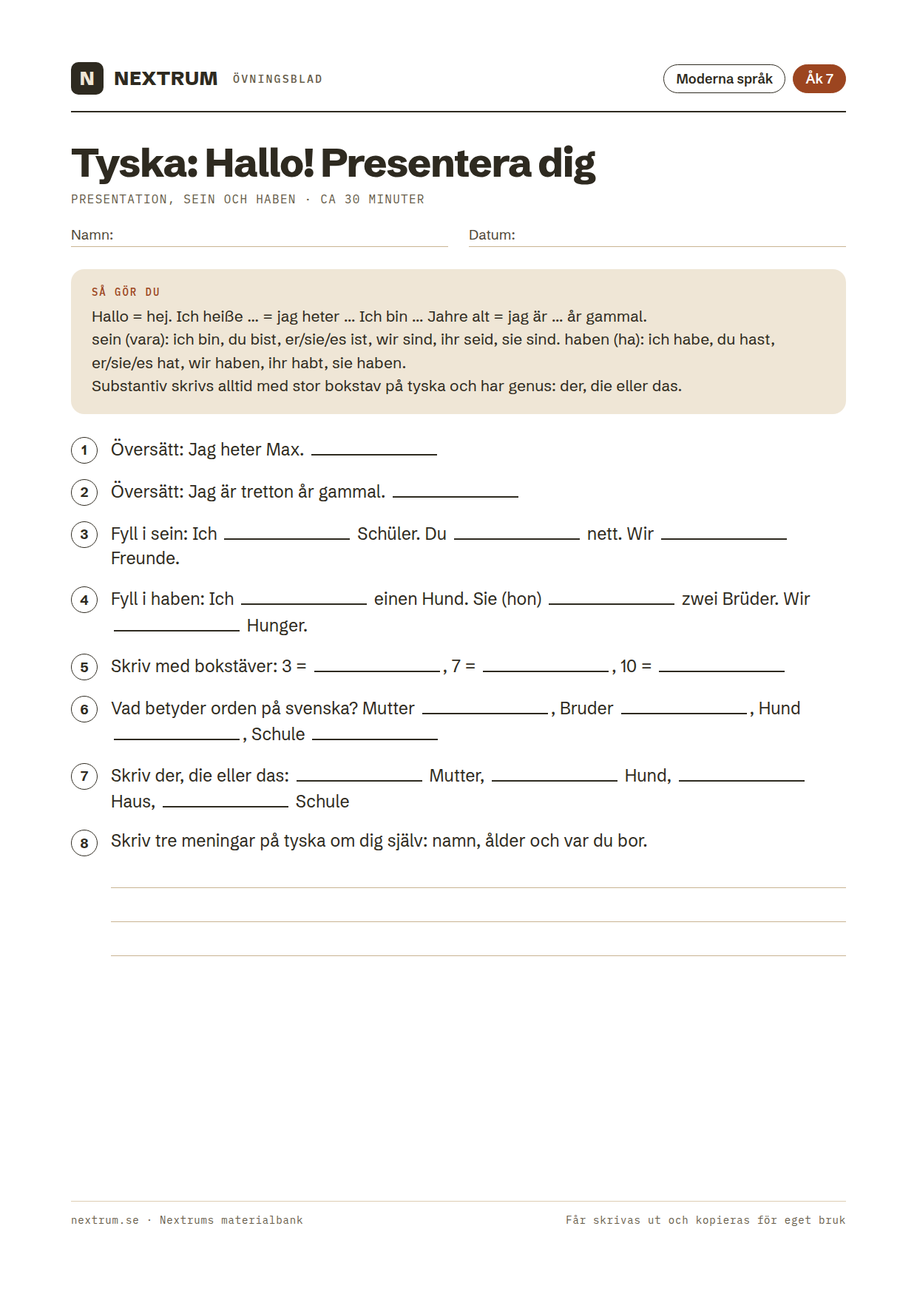
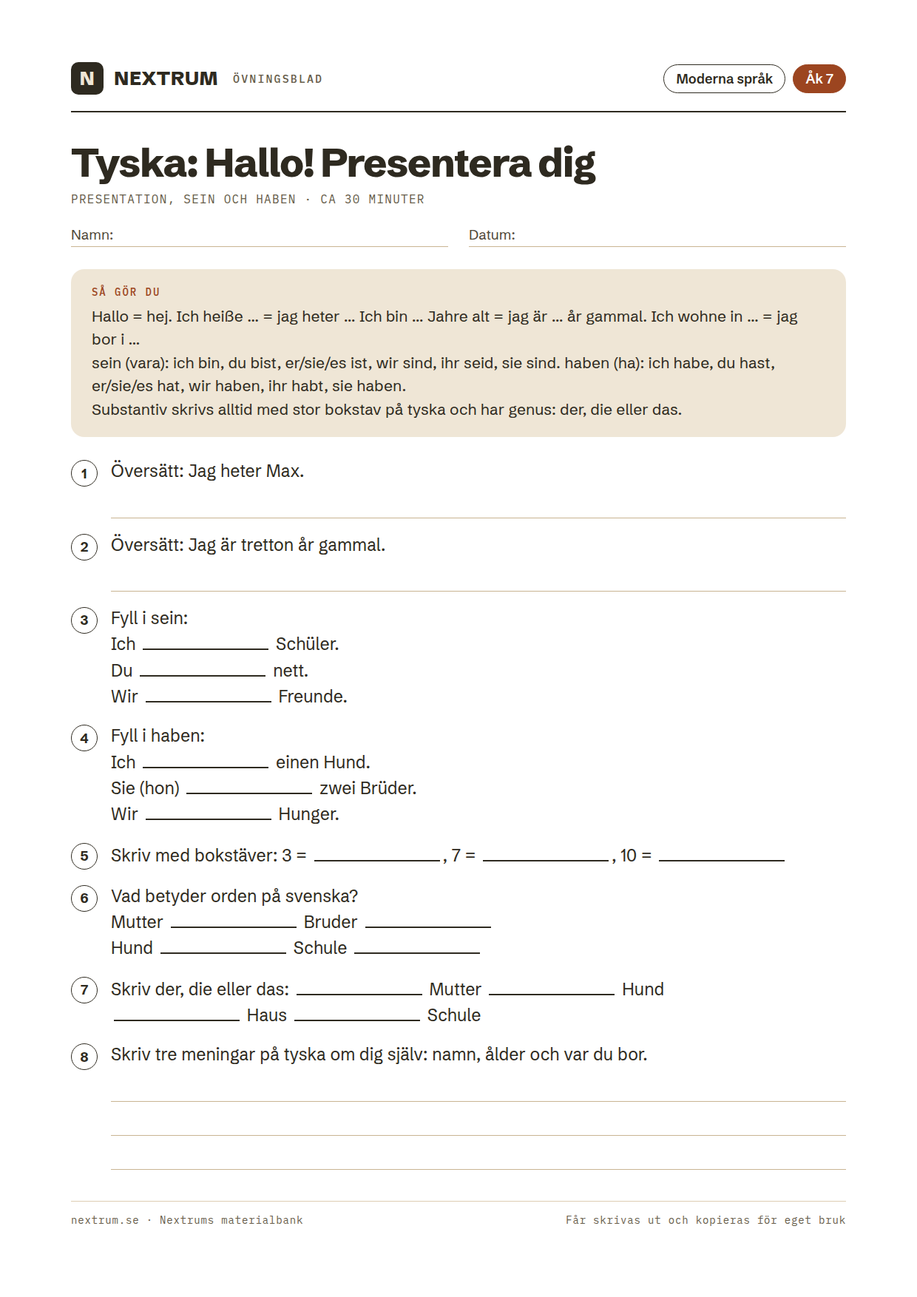
Fas 15.6: språk- och räknegranskningen rättar bladen i materialbanken
Ingen granskare hittade fel facit. Däremot frågade flera uppgifter efter
något som bladet aldrig lär ut, och några saknade plats för svaret:

- Tyska, spanska och franska får "jag heter" och "jag bor i" i
  instruktionen, och en mening per rad i uppgifterna med flera luckor.
- Översättningar får en hel skrivrad i stället för en kort linje.
- Dialogbladet säger att punkten blir komma före "sa Omar", satsdelarna
  förklarar huvudsats och bisats, och klockan att halv fyra skrivs 3.30.
- Python åk 9 förklarar == och range(1, 4); felsökningsuppgiften har ett
  fel i stället för två. Python gy 1 förklarar append, upper och for.
- Svarsplats där den saknades (förenkla, integral, skärningspunkt,
  tiotal och ental), rektangeln 8 × 5 cm ritas i rätt proportion,
  fogge-s tas bort ur uppdelningsuppgiften, och gymnasietalaren har gått
  två år på skolan, inte nio.
- Källkritiken godtar flera kriterier, och skrivuppgifterna har lika
  många rader som texten ber om.

Migrationen är oförändrad: ingen titel eller beskrivning ändrades.

Claude-Session: https://claude.ai/code/session_011LBvXSaptKobfKq6P5G3d3

diff --git a/verktyg/bladen/hogstadiet.py b/verktyg/bladen/hogstadiet.py
@@ -50,8 +50,8 @@ BLAD = [
          instruktion=['En variabel, till exempel x, står för ett tal som kan variera.',
                       'Förenkla genom att lägga ihop likadana termer: 3x + 2x = 5x. Parentes: 2(x + 3) = 2x + 6.',
                       'En ekvation löser du genom att göra samma sak på båda sidor. Kontrollera svaret.'],
-         uppgifter=[('Beräkna värdet av 3x + 4 när x = 5.', 1), ('Beräkna värdet av 2a − b när a = 6 och b = 3.', 1),
-                    ('Förenkla 4x + 3x.', 0), ('Förenkla 5a + 2 + 3a − 1.', 1), ('Förenkla 3(x + 4).', 1),
+         uppgifter=[('Beräkna värdet av 3x + 4 när x = 5. []', 0), ('Beräkna värdet av 2a − b när a = 6 och b = 3.', 1),
+                    ('Förenkla 4x + 3x.', 1), ('Förenkla 5a + 2 + 3a − 1.', 1), ('Förenkla 3(x + 4).', 1),
                     ('Lös ekvationen 5x − 3 = 22.', 2), ('Lös ekvationen 4x + 7 = 2x + 15.', 2),
                     ('Ett paket kostar p kr. Skriv ett uttryck för vad 4 paket kostar tillsammans med en fraktavgift på 30 kr.', 1),
                     ('Maja är x år och hennes bror är 3 år äldre. Tillsammans är de 25 år. Ställ upp en ekvation och lös den.', 2)],
@@ -144,16 +144,16 @@ BLAD = [
 
     dict(fil='ak7-tyska-hallo-och-verben-sein-haben', arskurs='ak7', amne='Moderna språk',
          titel='Tyska: Hallo! Presentera dig', omrade='Presentation, sein och haben', tid='30 minuter',
-         instruktion=['Hallo = hej. Ich heiße ... = jag heter ... Ich bin ... Jahre alt = jag är ... år gammal.',
+         instruktion=['Hallo = hej. Ich heiße ... = jag heter ... Ich bin ... Jahre alt = jag är ... år gammal. Ich wohne in ... = jag bor i ...',
                       'sein (vara): ich bin, du bist, er/sie/es ist, wir sind, ihr seid, sie sind. '
                       'haben (ha): ich habe, du hast, er/sie/es hat, wir haben, ihr habt, sie haben.',
                       'Substantiv skrivs alltid med stor bokstav på tyska och har genus: der, die eller das.'],
-         uppgifter=[('Översätt: Jag heter Max. ___', 0), ('Översätt: Jag är tretton år gammal. ___', 0),
-                    ('Fyll i sein: Ich ___ Schüler. Du ___ nett. Wir ___ Freunde.', 0),
-                    ('Fyll i haben: Ich ___ einen Hund. Sie (hon) ___ zwei Brüder. Wir ___ Hunger.', 0),
+         uppgifter=[('Översätt: Jag heter Max.', 1), ('Översätt: Jag är tretton år gammal.', 1),
+                    ('Fyll i sein:\nIch ___ Schüler.\nDu ___ nett.\nWir ___ Freunde.', 0),
+                    ('Fyll i haben:\nIch ___ einen Hund.\nSie (hon) ___ zwei Brüder.\nWir ___ Hunger.', 0),
                     ('Skriv med bokstäver: 3 = ___, 7 = ___, 10 = ___', 0),
-                    ('Vad betyder orden på svenska? Mutter ___, Bruder ___, Hund ___, Schule ___', 0),
-                    ('Skriv der, die eller das: ___ Mutter, ___ Hund, ___ Haus, ___ Schule', 0),
+                    ('Vad betyder orden på svenska?\nMutter ___   Bruder ___\nHund ___   Schule ___', 0),
+                    ('Skriv der, die eller das: ___ Mutter   ___ Hund\n___ Haus   ___ Schule', 0),
                     ('Skriv tre meningar på tyska om dig själv: namn, ålder och var du bor.', 3)],
          beskrivning='Nybörjartyska: presentera sig, verben sein och haben, siffror, familjeord och genus.'),
 
@@ -195,7 +195,8 @@ BLAD = [
          titel='Satsdelar: subjekt, predikat och objekt', omrade='Grammatik', tid='30 minuter',
          instruktion=['Predikatet är verbet i satsen. Subjektet är den eller det som gör något: fråga "vem eller vad" + predikatet.',
                       'Objektet är den eller det något görs med: fråga "vem eller vad" + predikatet + subjektet.',
-                      'Adverbial berättar när, var eller hur: i går, i parken, snabbt.'],
+                      'Adverbial berättar när, var eller hur: i går, i parken, snabbt.',
+                      'En huvudsats kan stå ensam. En bisats börjar ofta med ett ord som eftersom, att eller om och kan inte stå ensam.'],
          uppgifter=[('Vad är predikatet i "Eva läser en bok"? ___', 0),
                     ('Vad är subjektet i "Barnen byggde en koja"? ___', 0),
                     ('Vad är objektet i "Barnen byggde en koja"? ___', 0),
@@ -203,7 +204,7 @@ BLAD = [
                     ('Dela upp meningen i subjekt, predikat, objekt och adverbial: Mamma bakade bullar på söndagen.', 2),
                     ('Rätta ordföljden: I morgon jag ska åka till farmor. ___', 1),
                     ('Vilken del är huvudsats och vilken bisats? Jag stannar hemma eftersom jag är sjuk.', 2),
-                    ('Gör om till en fråga: Han har läst boken. ___', 0),
+                    ('Gör om till en fråga: Han har läst boken.', 1),
                     ('Skriv en mening med subjekt, predikat, objekt och adverbial. Markera delarna.', 2)],
          beskrivning='Satsdelar: hitta subjekt, predikat, objekt och adverbial, rätta ordföljd och skilja huvudsats från bisats.'),
 
@@ -212,10 +213,10 @@ BLAD = [
          instruktion=['En atom har en kärna med protoner (positiva) och neutroner (utan laddning). Runt kärnan finns elektroner (negativa).',
                       'Antalet protoner bestämmer vilket grundämne det är. En neutral atom har lika många elektroner som protoner.',
                       'Atomnumret är antalet protoner. Ett grundämne består av en sorts atomer, och en kemisk förening av flera sorters atomer, till exempel H₂O.'],
-         uppgifter=[('Vilken laddning har protoner, neutroner och elektroner? ___, ___ och ___', 0),
+         uppgifter=[('Vilken laddning har protoner, neutroner och elektroner?\nProtoner: ___   Neutroner: ___   Elektroner: ___', 0),
                     ('Kol har atomnummer 6. Hur många protoner har en kolatom? []', 0),
                     ('En neutral syreatom har 8 protoner. Hur många elektroner har den? []', 0),
-                    ('Vad står beteckningarna för? H = ___, O = ___, C = ___, Na = ___', 0),
+                    ('Vad står beteckningarna för?\nH = ___   O = ___   C = ___   Na = ___', 0),
                     ('Hur många atomer av varje sort finns i en vattenmolekyl, H₂O? ___', 0),
                     ('Hur många atomer finns det sammanlagt i en molekyl koldioxid, CO₂? []', 0),
                     ('Ringa in de grundämnen som står i listan: vatten – syre – järn – salt – guld', 0),
@@ -245,15 +246,15 @@ BLAD = [
 
     dict(fil='ak8-spanska-presentarse', arskurs='ak8', amne='Moderna språk',
          titel='Spanska: Presentera dig och din familj', omrade='Presentation, ser och tener', tid='30 minuter',
-         instruktion=['Hola = hej. Me llamo ... = jag heter ... Tengo ... años = jag är ... år gammal.',
+         instruktion=['Hola = hej. Me llamo ... = jag heter ... Tengo ... años = jag är ... år gammal. Vivo en ... = jag bor i ...',
                       'ser (vara): soy, eres, es, somos, sois, son. tener (ha): tengo, tienes, tiene, tenemos, tenéis, tienen.',
                       'Substantiv har genus: el (maskulin) och la (feminin).'],
-         uppgifter=[('Översätt: Hej, jag heter Sara. ___', 0), ('Översätt: Jag är tolv år gammal. ___', 0),
-                    ('Fyll i ser: Yo ___ sueco. Ella ___ de Madrid. Nosotros ___ amigos.', 0),
-                    ('Fyll i tener: Tú ___ un hermano. Mi madre ___ dos gatos. Nosotros ___ una casa.', 0),
+         uppgifter=[('Översätt: Hej, jag heter Sara.', 1), ('Översätt: Jag är tolv år gammal.', 1),
+                    ('Fyll i ser:\nYo ___ sueco.\nElla ___ de Madrid.\nNosotros ___ amigos.', 0),
+                    ('Fyll i tener:\nTú ___ un hermano.\nMi madre ___ dos gatos.\nNosotros ___ una casa.', 0),
                     ('Skriv med bokstäver: 3 = ___, 7 = ___, 10 = ___', 0),
-                    ('Vad betyder orden på svenska? madre ___, hermano ___, abuela ___, perro ___', 0),
-                    ('Skriv el eller la: ___ casa, ___ libro, ___ escuela, ___ chico', 0),
+                    ('Vad betyder orden på svenska?\nmadre ___   hermano ___\nabuela ___   perro ___', 0),
+                    ('Skriv el eller la:\n___ casa   ___ libro   ___ escuela   ___ chico', 0),
                     ('Skriv tre meningar på spanska om dig själv: namn, ålder och var du bor.', 3)],
          beskrivning='Nybörjarspanska: presentera sig, verben ser och tener, siffror, familjeord och genus.'),
 
@@ -268,8 +269,8 @@ BLAD = [
                     ('Lös systemen. a) 2x + y = 11 och x + y = 7   b) 3x + 2y = 16 och x − 2y = 0', 2),
                     ('På en bio kostar 2 vuxenbiljetter och 3 barnbiljetter 480 kr. 1 vuxenbiljett och 2 barnbiljetter '
                      'kostar 280 kr. Vad kostar en vuxenbiljett och en barnbiljett?', 3),
-                    ('Lös grafiskt: rita linjerna y = x + 1 och y = −x + 5 och läs av skärningspunkten.', 0,
-                     koordinatsystem(-1, 6, -1, 6, enhet=40)),
+                    ('Lös grafiskt: rita linjerna y = x + 1 och y = −x + 5 och läs av skärningspunkten. Skärningspunkt: ([], [])', 0,
+                     koordinatsystem(-1, 6, -1, 6, enhet=34)),
                     ('Hur många lösningar har systemet y = 2x + 3 och y = 2x − 1? Förklara.', 1)],
          beskrivning='Ekvationssystem med additions- och substitutionsmetoden, en textuppgift och en grafisk lösning.'),
 
@@ -325,7 +326,8 @@ BLAD = [
     dict(fil='ak9-programmering-python-grunder', arskurs='ak9', amne='Programmering',
          titel='Python: variabler, villkor och loopar', omrade='Programmering', tid='40 minuter',
          instruktion=['En variabel sparar ett värde: x = 5. print(x) skriver ut värdet.',
-                      'if och else väljer vad som händer. En for-loop upprepar kod: range(3) ger talen 0, 1 och 2.',
+                      'Ett likhetstecken (=) sparar ett värde i en variabel. Två (==) jämför två värden. if och else väljer vad som händer.',
+                      'En for-loop upprepar kod: range(3) ger talen 0, 1 och 2, och range(1, 4) ger 1, 2 och 3.',
                       'Läs koden rad för rad som om du var datorn.'],
          uppgifter=[('Vad skriver programmen ut? a) []   b) ___', 0,
                      kodrad(('a)', 'x = 4\ny = x * 3\nprint(y)'), ('b)', 'namn = "Alva"\nprint("Hej " + namn)'))),
@@ -334,23 +336,24 @@ BLAD = [
                             ('d)', 'for i in range(4):\n    print(i * 2)'))),
                     ('e) Vad skriver programmet ut? []   f) Vilket fel finns i koden? ___', 0,
                      kodrad(('e)', 'summa = 0\nfor i in range(1, 4):\n    summa = summa + i\nprint(summa)'),
-                            ('f)', 'if x = 5:\n    print("fem")'))),
+                            ('f)', 'x = 5\nif x = 5:\n    print("fem")'))),
                     ('Skriv ett program som skriver ut talen 1 till 5.', 2),
-                    ('Vad är en variabel? Förklara med egna ord.', 2)],
+                    ('Vad är en variabel? Förklara med egna ord.', 1)],
          beskrivning='Läsa och skriva enkel Python: variabler, villkor, for-loopar och felsökning.'),
 
     dict(fil='ak9-franska-etre-et-avoir', arskurs='ak9', amne='Moderna språk',
          titel='Franska: être och avoir', omrade='Presentation, être och avoir', tid='30 minuter',
-         instruktion=["être (vara): je suis, tu es, il/elle est, nous sommes, vous êtes, ils/elles sont. "
+         instruktion=["Bonjour = hej. Je m'appelle ... = jag heter ... J'habite à ... = jag bor i ...",
+                      "être (vara): je suis, tu es, il/elle est, nous sommes, vous êtes, ils/elles sont. "
                       "avoir (ha): j'ai, tu as, il/elle a, nous avons, vous avez, ils/elles ont.",
                       'Substantiv är maskulina eller feminina: le/un och la/une. Flera heter les.',
                       'På franska säger man att man "har" en viss ålder: j\'ai quinze ans.'],
-         uppgifter=[("Översätt: Jag heter Léa. ___", 0), ("Översätt: Jag är femton år gammal. ___", 0),
-                    ('Fyll i être: Je ___ suédois. Elle ___ ma sœur. Nous ___ amis.', 0),
-                    ('Fyll i avoir: Tu ___ un chat. Il ___ deux frères. Nous ___ faim.', 0),
-                    ('Skriv le eller la: ___ maison, ___ livre, ___ table, ___ garçon', 0),
+         uppgifter=[("Översätt: Jag heter Léa.", 1), ("Översätt: Jag är femton år gammal.", 1),
+                    ('Fyll i être:\nJe ___ suédois.\nElle ___ ma sœur.\nNous ___ amis.', 0),
+                    ('Fyll i avoir:\nTu ___ un chat.\nIl ___ deux frères.\nNous ___ faim.', 0),
+                    ('Skriv le eller la: ___ maison   ___ livre\n___ table   ___ garçon', 0),
                     ('Skriv med bokstäver: 3 = ___, 7 = ___, 10 = ___', 0),
-                    ("Vad betyder orden på svenska? la mère ___, le frère ___, le chien ___, l'école ___", 0),
+                    ("Vad betyder orden på svenska?\nla mère ___   le frère ___\nle chien ___   l'école ___", 0),
                     ('Skriv tre meningar på franska om dig själv: namn, ålder och var du bor.', 3)],
          beskrivning='Nybörjarfranska: presentera sig, verben être och avoir, siffror, familjeord och genus.'),
 

diff --git a/verktyg/bladen/gymnasiet.py b/verktyg/bladen/gymnasiet.py
@@ -75,7 +75,7 @@ BLAD = [
          titel='Retorik – ethos, pathos och logos', omrade='Svenska 1: tala och övertyga', tid='40 minuter',
          instruktion=['Retorik är konsten att övertyga. Ethos är talarens trovärdighet, pathos är känslor och logos är fakta och logiska argument.',
                       'Mottagare, syfte och situation styr hur man formulerar sig. Talet nedan är ett påhittat exempel.'],
-         text=('Kära klasskamrater. Jag har gått i den här skolan i nio år, och jag har sett något hända. Förr satt vi i matsalen och '
+         text=('Kära klasskamrater. Jag har gått i den här skolan i två år, och jag har sett något hända. Förr satt vi i matsalen och '
                'pratade. I dag sitter många med blicken i mobilen. Därför tycker jag att vår skola ska införa mobilfria raster. '
                'Som ordförande i elevrådet har jag pratat med över hundra elever, och de flesta säger att de saknar att umgås på '
                'riktigt. Tänk dig en rast där du hör någons skratt i stället för en notis. Rasten finns för att vi ska vila hjärnan '
@@ -120,21 +120,20 @@ BLAD = [
 
     dict(fil='gy1-programmering-listor-och-funktioner', arskurs='gy1', amne='Programmering',
          titel='Python: listor, funktioner och loopar', omrade='Programmering 1', tid='40 minuter',
-         instruktion=['En lista samlar värden: tal = [4, 8, 15]. Första elementet har index 0. len(tal) är antalet element.',
+         instruktion=['En lista samlar värden: tal = [4, 8, 15]. Första elementet har index 0, och len(tal) är antalet element. // ger heltalsdivision och % rest.',
                       'En funktion definieras med def och lämnar tillbaka ett värde med return. En while-loop körs så länge villkoret är sant.',
-                      'Operatorerna // och % ger heltalsdivision och rest.'],
+                      'tal.append(x) lägger till x sist i listan, och s.upper() gör om texten till versaler. for o in orden går igenom listan ett element i taget.'],
          uppgifter=[('Vad skriver programmen ut? a) []   b) []', 0,
                      kodrad(('a)', 'tal = [4, 8, 15]\nprint(tal[1])'),
                             ('b)', 'tal = [2, 4, 6]\ntal.append(8)\nprint(len(tal))'))),
-                    ('c) Vad skrivs ut? []   d) Vad skrivs ut? ___ (tre rader, skriv dem efter varandra)', 0,
+                    ('c) Vad skrivs ut? []   d) Vad skrivs ut? Skriv raderna efter varandra. ___', 0,
                      kodrad(('c)', 'def dubbla(x):\n    return x * 2\nprint(dubbla(5) + 1)'),
                             ('d)', 'orden = ["kal", "ba", "lo"]\nfor o in orden:\n    print(o.upper())'))),
                     ('e) Vad skrivs ut? []   f) Vad skrivs ut? ___', 0,
                      kodrad(('e)', 'x = 10\nwhile x > 3:\n    x = x - 4\nprint(x)'),
                             ('f)', 'a = 7\nb = 2\nprint(a // b, a % b)'))),
                     ('Skriv en funktion kvadrat(x) som lämnar tillbaka x upphöjt till 2.', 1),
-                    ('Skriv kod som summerar talen i listan tal = [3, 5, 9] med en for-loop och skriver ut summan.', 2),
-                    ('Förklara skillnaden mellan print och return.', 1)],
+                    ('Skriv kod som summerar talen i listan tal = [3, 5, 9] med en for-loop och skriver ut summan.', 2)],
          beskrivning='Läsa och skriva Python med listor, funktioner, while- och for-loopar samt heltalsdivision och rest.'),
 
     # ---- Gymnasiet 2 ----
@@ -191,11 +190,11 @@ BLAD = [
                       'Finns det en tendens, alltså ett syfte eller intresse bakom?',
                       'En primärkälla kommer direkt från händelsen. En sekundärkälla beskriver den i efterhand.'],
          uppgifter=[('Du hittar en blogg där en säljare av kosttillskott skriver att produkten botar trötthet. Vilket källkritiskt kriterium är viktigast? Förklara.', 2),
-                    ('Ett inlägg i sociala medier visar en bild "från gårdagens översvämning", men bilden är tre år gammal. Vilket kriterium brister?', 1),
-                    ('Tre tidningar publicerar exakt samma text om en händelse, eftersom alla fått den från samma nyhetsbyrå. Är det tre oberoende källor? Förklara.', 2),
+                    ('Ett inlägg i sociala medier visar en bild "från gårdagens översvämning", men bilden är tre år gammal. Vilket eller vilka kriterier brister? Förklara.', 2),
+                    ('Tre tidningar publicerar exakt samma text om en händelse, eftersom alla fått den från samma nyhetsbyrå. Är det tre oberoende källor? Förklara.', 1),
                     ('Förklara skillnaden mellan primärkälla och sekundärkälla. Ge ett exempel på vardera.', 2),
                     ('Hur kan du kontrollera att ett påstående du läst på nätet stämmer? Nämn tre sätt.', 2),
-                    ('Skriv en bedömning (5–6 meningar) av en källa som du själv använder när du söker information.', 4)],
+                    ('Skriv en bedömning (3–4 meningar) av en källa som du själv använder när du söker information.', 4)],
          beskrivning='Källkritiska kriterier och begrepp: äkthet, beroende, samtidighet, tendens, primär- och sekundärkälla.'),
 
     dict(fil='gy2-engelska-analysing-a-short-text', arskurs='gy2', amne='Engelska',
@@ -213,7 +212,7 @@ BLAD = [
                     ("How does Mira's mood change during the text? Quote two phrases that show it.", 2),
                     ('What might the flickering streetlamp and the snow symbolise?', 2),
                     ('Explain the last sentence: "the silence did not feel empty".', 2),
-                    ('Write a paragraph (6–8 lines) that continues the story in the same tone.', 3)],
+                    ('Write a short paragraph (3–4 lines) that continues the story in the same tone.', 3)],
          beskrivning='Analysera en kort original-text på engelska: miljö, berättare, stämning, symbolik och eget fortsatt skrivande.'),
 
     dict(fil='gy2-fysik-rorelse-och-newtons-lagar', arskurs='gy2', amne='NO / Fysik / Kemi / Biologi', chip='Fysik',
@@ -237,7 +236,7 @@ BLAD = [
          titel='Integraler – primitiva funktioner och area', omrade='Matematik 3', tid='40 minuter',
          instruktion=['En primitiv funktion F(x) till f(x) uppfyller F′(x) = f(x). Regeln: ∫ xⁿ dx = xⁿ⁺¹ / (n + 1) + C när n ≠ −1.',
                       'Bestämd integral: ∫ f(x) dx från a till b är F(b) − F(a). Om f(x) ≥ 0 är det arean under kurvan.'],
-         uppgifter=[('Bestäm ∫ x⁴ dx.', 0), ('Bestäm ∫ (6x² − 4x + 3) dx.', 1),
+         uppgifter=[('Bestäm ∫ x⁴ dx.', 1), ('Bestäm ∫ (6x² − 4x + 3) dx.', 1),
                     ('Beräkna ∫ 3x² dx från x = 0 till x = 2. []', 1),
                     ('Beräkna ∫ (2x + 1) dx från x = 1 till x = 4. []', 1),
                     ('Beräkna ∫ 1/x² dx från x = 1 till x = 2. Tips: 1/x² = x⁻². []', 1),
@@ -267,12 +266,13 @@ BLAD = [
          instruktion=['Att citera är att återge ord för ord inom citattecken. Att parafrasera är att återge idén med egna ord. '
                       'Att sammanfatta är att korta ner det viktigaste.',
                       'Ett referat är sakligt: presens, inga egna åsikter, och med hänvisning till källan.'],
-         text=('Under sömnen vilar inte hjärnan, den arbetar. Forskning om sömn visar att minnen som skapats under dagen '
+         text=['Under sömnen vilar inte hjärnan, den arbetar. Forskning om sömn visar att minnen som skapats under dagen '
                'befästs under natten, särskilt under djupsömnen. Det betyder att den som sover efter att ha pluggat ofta minns '
                'mer än den som är vaken. Under sömnen sorterar hjärnan också bort mindre viktig information och stärker det som verkar '
                'viktigt. Tonåringar behöver i regel åtta till tio timmar sömn per natt, men många sover betydligt mindre, bland '
                'annat eftersom den biologiska klockan under tonåren förskjuts mot senare kvällar. Skolor i flera länder har därför '
-               'prövat senare skolstart. Resultaten har varit blandade, men många elever uppger att de känner sig piggare.'),
+               'prövat senare skolstart. Resultaten har varit blandade, men många elever uppger att de känner sig piggare.',
+               'Källa: Nextrum, exempeltext om sömn och minne.'],
          uppgifter=[('Vilket är textens huvudbudskap? Svara med en mening.', 1),
                     ('Skriv ett referat av texten på högst 60 ord.', 4),
                     ('Förklara skillnaden mellan att citera, parafrasera och sammanfatta.', 2),
@@ -290,7 +290,7 @@ BLAD = [
                     ('Improve this sentence: "Social media is bad because it is bad for people."', 2),
                     ('Write a topic sentence for a paragraph arguing that young people learn useful skills online.', 1),
                     ('Write one counterargument and a rebuttal to it.', 3),
-                    ('Write a concluding paragraph of about five lines.', 4)],
+                    ('Write a concluding paragraph of about five lines.', 5)],
          beskrivning='Skriva en argumenterande text på engelska: tes, bindeord, ämnesmening, motargument med bemötande och avslutning.'),
 
     dict(fil='gy3-so-ekonomi-bnp-inflation-och-riksbanken', arskurs='gy3', amne='SO / Historia / Samhällskunskap', chip='Samhällskunskap',

diff --git a/verktyg/bladen/mellanstadiet.py b/verktyg/bladen/mellanstadiet.py
@@ -86,7 +86,7 @@ BLAD = [
                     ('Skriv motsatsen: öppna ___, vinna ___, komma ___, glömma ___', 0),
                     ('Ringa in synonymen till trött: utvilad – sömnig – pigg', 0),
                     ('Sätt ihop orden till ett nytt ord: snö + boll = ___, tand + borste = ___, regn + jacka = ___', 0),
-                    ('Dela upp ordet i de ord det består av: fotbollsplan = ___ + ___ + ___', 0),
+                    ('Dela upp orden i de ord de består av:\nskolgård = ___ + ___   cykelhjälm = ___ + ___', 0),
                     ('Skriv en mening där du använder ett ord och dess motsats.', 2)],
          beskrivning='Synonymer, motsatsord och sammansatta ord: hitta, sortera och bilda egna.'),
 
@@ -95,13 +95,12 @@ BLAD = [
          instruktion=['Så beskriver du någon på engelska: She has long hair. He is tall. They have blue eyes.',
                       'Till I, you, we och they säger vi have. Till he, she och it säger vi has.',
                       'I am, you are, he is, she is, we are, they are.'],
-         uppgifter=[('Översätt: Hon har långt hår. ___', 0), ('Översätt: Han är lång. ___', 0),
-                    ('Översätt: Jag har blå ögon. ___', 0),
-                    ('Fyll i has eller have: My sister ___ brown hair. We ___ a big dog.', 0),
-                    ('Fyll i am, is eller are: I ___ nine. She ___ my friend. We ___ in class four.', 0),
-                    ('Vad betyder orden på svenska? tall ___, short ___, curly ___, young ___', 0),
-                    ('Skriv tre meningar om en kompis utan att skriva namnet. Börja med: He/She has ...', 3),
-                    ('Rita en person och skriv två meningar om hur personen ser ut.', 'ruta')],
+         uppgifter=[('Översätt: Hon har långt hår.', 1), ('Översätt: Han är lång.', 1),
+                    ('Översätt: Jag har blå ögon.', 1),
+                    ('Fyll i has eller have:\nMy sister ___ brown hair.\nWe ___ a big dog.', 0),
+                    ('Fyll i am, is eller are:\nI ___ nine.\nShe ___ my friend.\nWe ___ in class four.', 0),
+                    ('Vad betyder orden på svenska?\ntall ___   short ___\ncurly ___   young ___', 0),
+                    ('Skriv tre meningar om en kompis utan att skriva namnet. Börja med: He/She has ...', 3)],
          beskrivning='Beskriva utseende på engelska med have/has och am/is/are, och skriva om en kompis.'),
 
     dict(fil='ak4-so-karta-och-vaderstreck', arskurs='ak4', amne='SO / Historia / Samhällskunskap',
@@ -127,7 +126,7 @@ BLAD = [
                       'Arean är hur stor yta figuren täcker. För en rektangel är arean basen gånger höjden.',
                       'Area mäts i kvadratcentimeter (cm²) eller kvadratmeter (m²).'],
          uppgifter=[('Beräkna rektangelns omkrets och area. Omkrets: [] cm  Area: [] cm²', 0,
-                     rektangel('8 cm', '5 cm', b=320, h=125)),
+                     rektangel('8 cm', '5 cm', b=320, h=200)),
                     ('Ett kvadratiskt bord har sidan 6 dm. Hur lång är bordets omkrets? [] dm', 0),
                     ('En kvadrat har arean 49 cm². Hur lång är en sida? [] cm', 0),
                     ('En rektangel har omkretsen 20 cm och den ena sidan är 6 cm. Hur lång är den andra sidan? [] cm', 0),
@@ -157,7 +156,7 @@ BLAD = [
          titel='Skriva dialog med talstreck', omrade='Dialog och skiljetecken', tid='30 minuter',
          instruktion=['När någon pratar i en text kan man använda talstreck: – Hej! sa Lena.',
                       'Efter ett fråge- eller utropstecken skrivs "sa Lena" med liten bokstav. '
-                      'Efter ett kommatecken fortsätter det på samma sätt: – Jag kommer snart, sa mamma.',
+                      'Slutar repliken med punkt byts den mot komma: – Jag kommer snart, sa mamma.',
                       'Ersätt gärna "sa" med ett mer talande ord: ropade, viskade, svarade.'],
          uppgifter=[('Gör om till dialog med talstreck: Lena frågade Omar vart han skulle. Omar svarade att han skulle till biblioteket.', 3),
                     ('Rätta felet: – Vilken fin dag! Sa Lena.', 1),

diff --git a/verktyg/bladen/lagstadiet.py b/verktyg/bladen/lagstadiet.py
@@ -114,7 +114,7 @@ BLAD = [
                     ('Vilket tal är 10 mer än 36? []', 0), ('Vilket tal är 10 mindre än 52? []', 0),
                     ('40 + 30 = []', 0), ('90 − 50 = []', 0),
                     ('Skriv talen i storleksordning, minst först: 48, 84, 38, 83', 1),
-                    ('Rita 23 prickar. Ringa in tio prickar åt gången. Hur många tiotal och ental blir det?', 'ruta')],
+                    ('Rita 23 prickar. Ringa in tio prickar åt gången. Hur många tiotal och ental blir det? [] tiotal och [] ental', 'ruta')],
          beskrivning='Tiotal och ental i tal upp till 100: uppdelning, tio mer och tio mindre, och storleksordning.'),
 
     dict(fil='ak2-matematik-klockan', arskurs='ak2', amne='Matematik',
@@ -122,7 +122,7 @@ BLAD = [
          instruktion=['Den korta visaren visar timmen. Den långa visaren visar minuterna.',
                       'Pekar den långa visaren på 12 är klockan hel, till exempel tre. '
                       'Pekar den på 6 är klockan halv, till exempel halv fyra.',
-                      'Skriv klockslagen med siffror, till exempel 3.30.'],
+                      'Skriv klockslagen med siffror. Tre skrivs 3.00 och halv fyra skrivs 3.30.'],
          uppgifter=[('Vad är klockan? Skriv tiden under varje klocka.', 0,
                      klockor((4, 0), (9, 0), (12, 0))),
                     ('Vad är klockan nu? Skriv tiden under varje klocka.', 0,
@@ -205,7 +205,7 @@ BLAD = [
          titel='Längd – cm, dm och m', omrade='Mäta och jämföra längd', tid='20 minuter',
          instruktion=['Längd mäter vi i millimeter (mm), centimeter (cm), decimeter (dm) och meter (m).',
                       '1 cm = 10 mm, 1 dm = 10 cm och 1 m = 10 dm = 100 cm.',
-                      'Skriv svaret i rutan. Skriv enheten också.'],
+                      'Skriv svaret i rutan. Skriv enheten också när den inte står efter rutan.'],
          uppgifter=[('1 m = [] cm', 0), ('3 dm = [] cm', 0), ('2 m = [] dm', 0), ('50 cm = [] dm', 0),
                     ('Ringa in det som är mest rimligt: En penna är 15 cm – 15 dm – 15 m lång.', 0),
                     ('Ringa in det som är mest rimligt: En dörr är 2 cm – 2 dm – 2 m hög.', 0),
